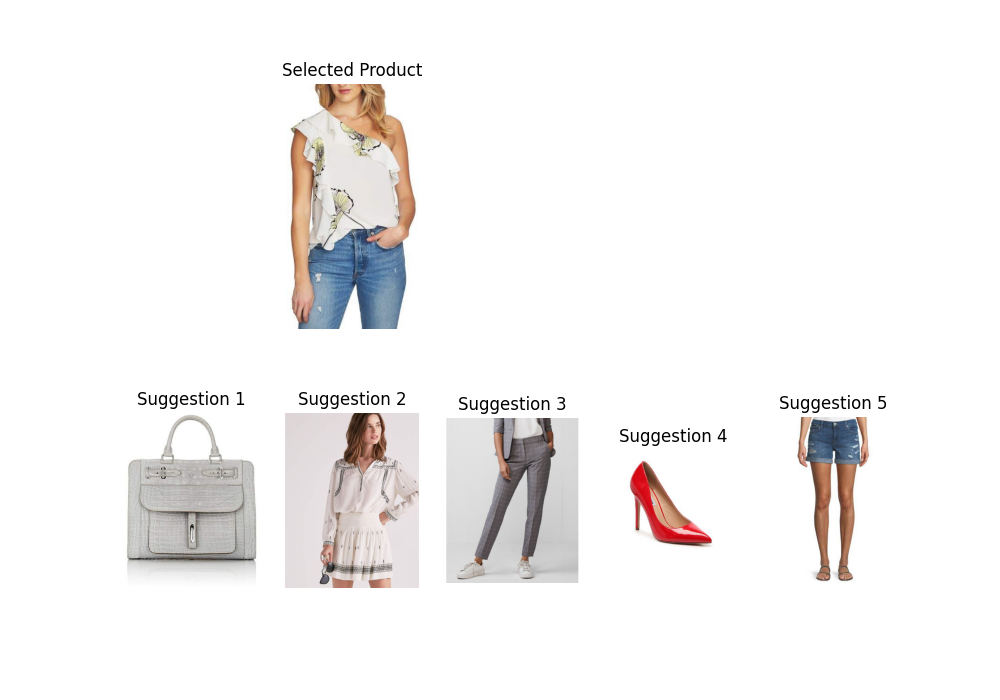
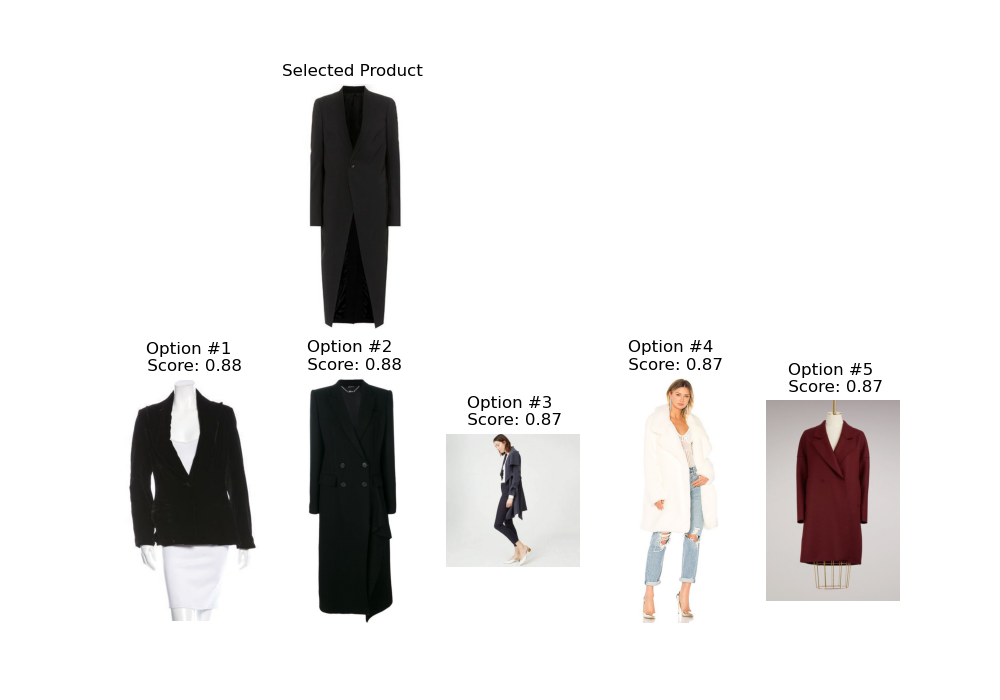
update image header

Changed region(s): [[0.124, 0.09, 0.589, 0.9], [0.744, 0.51, 0.899, 0.87], [0.62, 0.48, 0.713, 0.9]]

diff --git a/src/utils/show_images.py b/src/utils/show_images.py
@@ -34,7 +34,7 @@ def print_image(im1, im2, im3, im4, im5, im6, simlarity_scores):
     # showing image
     plt.imshow(Image2)
     plt.axis("off")
-    plt.title(f"1 - {simlarity_scores[0]}")
+    plt.title(f"Option #1 \n Score: {round(simlarity_scores[0],2)}")
 
     # Adds a subplot at the 3rd position
     fig.add_subplot(rows, columns, 7)
@@ -42,7 +42,7 @@ def print_image(im1, im2, im3, im4, im5, im6, simlarity_scores):
     # showing image
     plt.imshow(Image3)
     plt.axis("off")
-    plt.title(f"2 - {simlarity_scores[1]}")
+    plt.title(f"Option #2 \n Score: {round(simlarity_scores[1],2)}")
 
     # Adds a subplot at the 4th position
     fig.add_subplot(rows, columns, 8)
@@ -50,7 +50,7 @@ def print_image(im1, im2, im3, im4, im5, im6, simlarity_scores):
     # showing image
     plt.imshow(Image4)
     plt.axis("off")
-    plt.title(f"3 - {simlarity_scores[2]}")
+    plt.title(f"Option #3 \n Score: {round(simlarity_scores[2],2)}")
 
     # Adds a subplot at the 5th position
     fig.add_subplot(rows, columns, 9)
@@ -58,7 +58,7 @@ def print_image(im1, im2, im3, im4, im5, im6, simlarity_scores):
     # showing image
     plt.imshow(Image5)
     plt.axis("off")
-    plt.title(f"4 - {simlarity_scores[3]}")
+    plt.title(f"Option #4 \n Score: {round(simlarity_scores[3],2)}")
 
     # Adds a subplot at the 5th position
     fig.add_subplot(rows, columns, 10)
@@ -66,7 +66,7 @@ def print_image(im1, im2, im3, im4, im5, im6, simlarity_scores):
     # showing image
     plt.imshow(Image6)
     plt.axis("off")
-    plt.title(f"5 - {simlarity_scores[4]}")
+    plt.title(f"Option #5 \n Score: {round(simlarity_scores[4],2)}")
 
     plt.savefig("2by5.png")
     plt.show()
